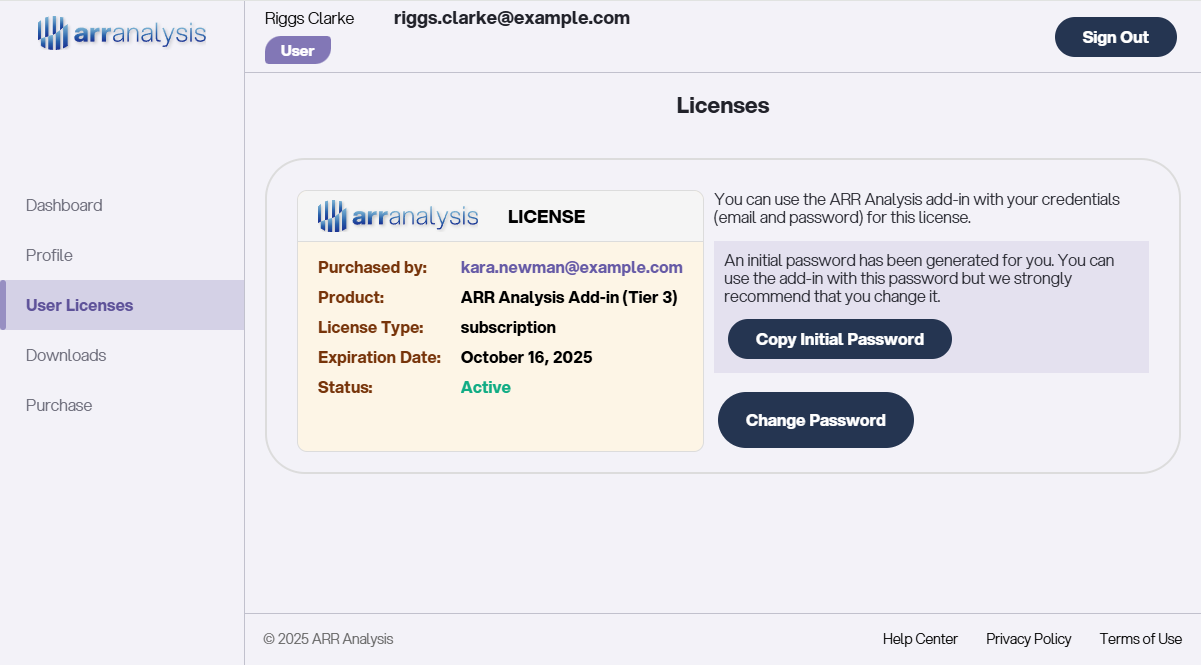
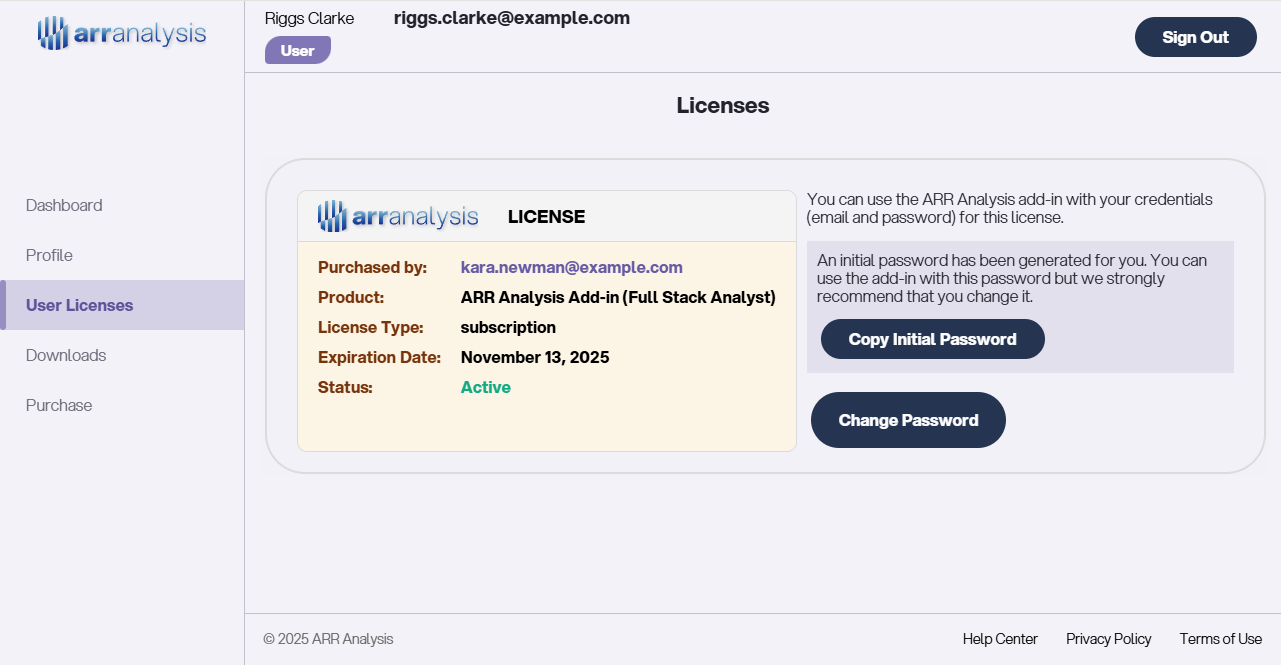
Replaced tier names everywhere with correct ones (Basic, SaaS Analyst and Full Stack Analyst)

diff --git a/website/src/components/help-center/zz-pages/PurchasingSubscriptions/index.js b/website/src/components/help-center/zz-pages/PurchasingSubscriptions/index.js
@@ -6,11 +6,11 @@ import useZoomableImage from '@/utils/client/useZoomableImage';
 // Components
 import ImageViewer from '@/components/help-center/ImageViewer';
 // Images
-import imgPricingOptions from '@/../public/help-center/Pricing-Options.jpg';
-import imgCheckoutSubscription from '@/../public/help-center/Checkout-Subscription.jpg';
+import imgPricingOptions from '@/../public/help-center/Pricing-Options.png';
+import imgCheckoutSubscription from '@/../public/help-center/Checkout-Subscription.png';
 import imgCheckoutCustomerInfo from '@/../public/help-center/Checkout-Customer-Info.jpg';
 import imgCheckoutPaymentMethod from '@/../public/help-center/Checkout-Payment-Method.png';
-import imgThankYouPage from '@/../public/help-center/Thank-You-Page.jpg';
+import imgThankYouPage from '@/../public/help-center/Thank-You-Page.png';
 // Styles
 import styles from '../common.module.scss';
 
@@ -22,21 +22,21 @@ const PurchasingSubscriptionsPage = () => {
     <section className={styles.main}>
       <article className={styles.full}>
         <h1>Purchasing Subscriptions</h1>
-        <p>To purchase a subscription, visit our <Link className={styles.link} href="/purchase">purchase page</Link>. Near the bottom of this page, you can choose your pricing tier and subscription type.</p>
+        <p>To purchase a subscription, visit our <Link className={styles.link} href="/purchase">purchase page</Link>. On this page, you can choose your subscription pricing tier and subscription billing period (monthly or yearly).</p>
         <Image className={styles.clickableImage}
                style={{ width: 'min(620px, 100%)' }}
                src={imgPricingOptions}
                alt="Pricing Options"
                priority
                onClick={() => setImage({ img: imgPricingOptions, alt: 'Pricing Options' })} />
-        <p>Clicking one of the three <strong className={styles.more}>Sign up</strong> buttons will take you to the checkout page, where you can review and adjust your subscription tier and billing period.</p>
-        <p>For the <strong>Enterprise</strong> tier, you also have the option to purchase multiple licenses.</p>
+        <p>Clicking one of the three <strong className={styles.more}>Buy Now</strong> buttons will take you to the checkout page, where you can review and adjust your pricing tier and billing period.</p>
+        <p>For the <strong>Full Stack Analyst</strong> tier, you also have the option to purchase multiple licenses.</p>
         <Image className={styles.clickableImage}
                style={{ width: 'min(620px, 100%)' }}
                src={imgCheckoutSubscription}
                alt="Subscription Tier and Billing Period"
                onClick={() => setImage({ img: imgCheckoutSubscription, alt: 'Subscription Tier and Billing Period' })} />
-        <p>Once you have chosen your subscription tier and billing period, enter your personal details in the form below. Required fields include your first and last name, email, and password. The Company field is optional. Your information is protected under our <Link className={styles.link} href="/privacy">Privacy Policy</Link>.</p>
+        <p>Once you have chosen your subscription pricing tier and billing period, enter your personal details in the form below. Required fields include your first and last name, email, and password. The Company field is optional. Your information is protected under our <Link className={styles.link} href="/privacy">Privacy Policy</Link>.</p>
         <Image className={styles.clickableImage}
                style={{ width: 'min(620px, 100%)' }}
                src={imgCheckoutCustomerInfo}

diff --git a/website/src/components/help-center/zz-pages/AssignLicenseSelf/AssignLicenseSelfClient/index.js b/website/src/components/help-center/zz-pages/AssignLicenseSelf/AssignLicenseSelfClient/index.js
@@ -6,11 +6,11 @@ import useZoomableImage from '@/utils/client/useZoomableImage';
 import ImageViewer from '@/components/help-center/ImageViewer';
 import Subtopics from '@/components/help-center/Subtopics';
 // Image
-import imgCustomerLicenses from '@/../public/help-center/Customer-Licenses1.jpg';
-import imgCustomerBecomesUser from '@/../public/help-center/Customer-Becomes-User.jpg';
-import imgUserLicenses from '@/../public/help-center/User-Licenses.jpg';
-import imgAssignedLicense from '@/../public/help-center/Assigned-License.jpg';
-import imgChangeLicensePassword from '@/../public/help-center/Change-License-Password.jpg';
+import imgCustomerLicenses from '@/../public/help-center/Customer-Licenses.png';
+import imgCustomerBecomesUser from '@/../public/help-center/Customer-Becomes-User.png';
+import imgUserLicenses from '@/../public/help-center/User-Licenses.png';
+import imgAssignedLicense from '@/../public/help-center/Assigned-License.png';
+import imgChangeLicensePassword from '@/../public/help-center/Change-License-Password.png';
 // Styles
 import styles from '../../common.module.scss';
 
@@ -23,13 +23,13 @@ const AssignLicenseSelfClient = ({ links }) => {
       <article className={styles.full}>
         <h1>Assigning a License to Yourself</h1>
         <p>As a <strong>Customer</strong>, you have purchased one or more subscriptions. Each subscription includes one or more licenses.</p>
-        <p className={styles.note}><strong className={styles.more}>Note:</strong> Subscriptions with multiple licenses are available only for <strong>Tier 3</strong> plans.</p>
+        <p className={styles.note}><strong className={styles.more}>Note:</strong> Subscriptions with multiple licenses are available only for <strong>Full Stack Analyst</strong> plans.</p>
         <hr />
         <h2>Step 1: Open the Customer Licenses Page</h2>
         <p>Go to the <strong>Customer Licenses</strong> page. The image below shows a customer with three licenses:</p>
         <ul>
-          <li>One license from a <strong>Tier 2</strong> subscription</li>
-          <li>Two licenses from a <strong>Tier 3</strong> subscription</li>
+          <li>One license from a <strong>SaaS Analyst</strong> subscription</li>
+          <li>Two licenses from a <strong>Full Stack Analyst</strong> subscription</li>
         </ul>
         <Image className={styles.clickableImage}
                style={{ width: 'min(750px, 100%)' }}
@@ -65,7 +65,7 @@ const AssignLicenseSelfClient = ({ links }) => {
         <h2>Step 4: Assign Yourself to the License</h2>
         <p>To use the <strong>ARR Analysis Excel Add-in</strong>, click <strong className={styles.more}>Assign Self</strong> on the desired license. After that your license will look like this:</p>
         <Image className={styles.clickableImage}
-               style={{ maxWidth: '100%' }}
+               style={{ width: 'min(750px, 100%)' }}
                src={imgAssignedLicense}
                alt="Assigned License"
                onClick={() => setImage({ img: imgAssignedLicense, alt: 'Assigned License' })} />

diff --git a/website/src/components/forms/DownloadFilesPage/index.js b/website/src/components/forms/DownloadFilesPage/index.js
@@ -1,6 +1,7 @@
 'use client';
 
 import { useCallback, useEffect, useState } from 'react';
+import { TierNames } from '@/utils/common';
 // Components
 import Footer from '@/components/admin/Footer';
 import LinkButton from '@/components/LinkButton';
@@ -33,7 +34,7 @@ const DownloadFilesPage = ({ files, isAdmin, allowed }) => {
     if (f[tier] == null)
       return '';
     const fileName = f[tier].fileName;
-    return f[tier].versions.map(ver => window.btoa(`${tier}/${ver}/${fileName}`));
+    return f[tier].versions.map(ver => window.btoa(`${ver}/${tier}/${fileName}`));
   }, []);
 
   useEffect(() => {
@@ -63,7 +64,7 @@ const DownloadFilesPage = ({ files, isAdmin, allowed }) => {
               }
               {!loading &&
                 <>
-                  <div className={styles.heading}>Basic</div>
+                  <div className={styles.heading}>{TierNames.Basic}</div>
                   <div className={styles.tier}>(Tier 1)</div>
                   <div className={styles.desc}>ARR Analysis Excel Add-in</div>
                   {files.tier01 == null && <FileNotFound />}
@@ -104,9 +105,9 @@ const DownloadFilesPage = ({ files, isAdmin, allowed }) => {
               }
               {!loading &&
                 <>
-                  <div className={styles.heading}>Intermediate</div>
+                  <div className={styles.heading}>{TierNames.SaaSAnalyst}</div>
                   <div className={styles.tier}>(Tier 2)</div>
-                  <div className={styles.desc}>ARR Analysis + Segmentation</div>
+                  <div className={styles.desc}>ARR Analysis Excel Add-in</div>
                   {files.tier02 == null && <FileNotFound />}
                   {files.tier02 != null &&
                     <>
@@ -145,9 +146,9 @@ const DownloadFilesPage = ({ files, isAdmin, allowed }) => {
               }
               {!loading &&
                 <>
-                  <div className={styles.heading}>Advanced</div>
+                  <div className={styles.heading}>{TierNames.FullStackAnalyst}</div>
                   <div className={styles.tier}>(Tier 3)</div>
-                  <div className={styles.desc}>Enterprise</div>
+                  <div className={styles.desc}>ARR Analysis Excel Add-in</div>
                   {files.tier03 == null && <FileNotFound />}
                   {files.tier03 != null &&
                     <>

diff --git a/website/src/components/help-center/zz-pages/AssignLicenseOther/AssignLicenseOtherClient/index.js b/website/src/components/help-center/zz-pages/AssignLicenseOther/AssignLicenseOtherClient/index.js
@@ -6,11 +6,11 @@ import useZoomableImage from '@/utils/client/useZoomableImage';
 import ImageViewer from '@/components/help-center/ImageViewer';
 import Subtopics from '@/components/help-center/Subtopics';
 // Image
-import imgCustomerLicenses from '@/../public/help-center/Customer-Licenses1.jpg';
+import imgCustomerLicenses from '@/../public/help-center/Customer-Licenses.png';
 import imgInviteUser from '@/../public/help-center/Invite-User.jpg';
-import imgInvitedByEmail from '@/../public/help-center/Invited-by-Email.jpg';
-import imgAllowedUser from '@/../public/help-center/Allowed-User.jpg';
-import imgAssignedUser from '@/../public/help-center/Assigned-User.jpg';
+import imgInvitedByEmail from '@/../public/help-center/Invited-by-Email.png';
+import imgAllowedUser from '@/../public/help-center/Allowed-User.png';
+import imgAssignedUser from '@/../public/help-center/Assigned-User.png';
 // Styles
 import styles from '../../common.module.scss';
 
@@ -23,13 +23,13 @@ const AssignLicenseOtherClient = ({ links }) => {
       <article className={styles.full}>
         <h1>Assigning a License to someone else</h1>
         <p>As a <strong>Customer</strong>, you have purchased one or more subscriptions. Each subscription includes one or more licenses.</p>
-        <p className={styles.note}><strong className={styles.more}>Note:</strong> Subscriptions with multiple licenses are available only for <strong>Tier 3</strong> plans.</p>
+        <p className={styles.note}><strong className={styles.more}>Note:</strong> Subscriptions with multiple licenses are available only for <strong>Full Stack Analyst</strong> plans.</p>
         <hr />
         <h2>Step 1: Open the Customer Licenses Page</h2>
         <p>Go to the <strong>Customer Licenses</strong> page. The image below shows a customer with three licenses:</p>
         <ul>
-          <li>One license from a <strong>Tier 2</strong> subscription</li>
-          <li>Two licenses from a <strong>Tier 3</strong> subscription</li>
+          <li>One license from a <strong>SaaS Analyst</strong> subscription</li>
+          <li>Two licenses from a <strong>Full Stack Analyst</strong> subscription</li>
         </ul>
         <Image className={styles.clickableImage}
                style={{ width: 'min(750px, 100%)' }}

diff --git a/website/src/app/(main)/terms/page.js b/website/src/app/(main)/terms/page.js
@@ -25,7 +25,7 @@ const TermsOfUsePage = () => {
             <ol>
               <li><strong>&ldquo;Customer&rdquo;</strong> means an individual or entity that purchases a subscription to our Services</li>
               <li><strong>&ldquo;User&rdquo;</strong> means an individual assigned a license by a Customer to use the Excel Add-in</li>
-              <li><strong>&ldquo;Add-in&rdquo;</strong> refers to our Excel Add-in software available in Basic, Intermediate, and Advanced tiers</li>
+              <li><strong>&ldquo;Add-in&rdquo;</strong> refers to our Excel Add-in software available in Basic, SaaS Analyst, and Full Stack Analyst tiers</li>
               <li><strong>&ldquo;Subscription&rdquo;</strong> means a paid plan (monthly or yearly) that provides access to the Add-in</li>
               <li><strong>&ldquo;Account&rdquo;</strong> means your registered account on our website</li>
             </ol>
@@ -44,7 +44,7 @@ const TermsOfUsePage = () => {
                 </ul>
               </li>
               <li>
-                <strong>Intermediate (Tier 2):</strong>
+                <strong>SaaS Analyst (Tier 2):</strong>
                 <p>Includes all Basic features, plus:</p>
                 <ul className={styles.mTx8}>
                   <li><span className={styles.lesser}>Cohort Analysis:</span> Track customer retention, churn, and expansion trends by cohort (e.g., by signup month or year).</li>
@@ -60,8 +60,8 @@ const TermsOfUsePage = () => {
                 </ul>
               </li>
               <li>
-                <strong>Advanced (Tier 3):</strong>
-                <p>Includes all Intermediate features, plus:</p>
+                <strong>Full Stack Analyst (Tier 3):</strong>
+                <p>Includes all SaaS Analyst features, plus:</p>
                 <ul className={styles.mTx8}>
                   <li>Analyze top churns in greater detail.</li>
                   <li>Analyze unit economics (LTV, CAC, GEI, Payback period).</li>

diff --git a/website/src/components/help-center/zz-pages/PurchaseMore/index.js b/website/src/components/help-center/zz-pages/PurchaseMore/index.js
@@ -27,11 +27,11 @@ const PurchaseMorePage = () => {
         <h2>Select Your Product and Billing Period</h2>
         <p>At the top of the page, choose one of the following products:</p>
         <ul>
-          <li>ARR Analysis Excel Add-in (Tier 1)</li>
-          <li>ARR Analysis + Segmentation (Tier 2)</li>
-          <li>Enterprise (Tier 3)</li>
+          <li>Basic</li>
+          <li>SaaS Analyst</li>
+          <li>Full Stack Analyst</li>
         </ul>
-        <p>For <strong>Tier 1</strong> and <strong>Tier 2</strong>, only one license per subscription can be purchased, and for <strong>Tier 3</strong>, a license counter appears so you can purchase multiple licenses in one subscription.</p>
+        <p>For <strong>Basic</strong> and <strong>SaaS Analyst</strong>, only one license per subscription can be purchased, and for <strong>Full Stack Analyst</strong>, a license counter appears so you can purchase multiple licenses in one subscription.</p>
         <p>Use the <strong className={styles.more}>Monthly / Yearly</strong> toggle to select your billing frequency:</p>
         <ul>
           <li><strong className={styles.more}>Monthly</strong> → Billed every month.</li>
@@ -63,7 +63,7 @@ const PurchaseMorePage = () => {
         <hr />
         <h2>View Your Purchase Summary</h2>
         <p>After a successful purchase, the page displays a <strong>Thank You</strong> message along with the details of your new subscription.</p>
-        <p>Example for a monthly subscription for the Enterprise (Tier 3) product with 4 licenses:</p>
+        <p>Example for a monthly subscription for the <strong>Full Stack Analyst</strong> product with 4 licenses:</p>
         <Image className={styles.clickableImage}
                style={{ width: 'min(750px, 100%)' }}
                src={imgThankYou}

diff --git a/website/src/utils/server/s3.js b/website/src/utils/server/s3.js
@@ -1,5 +1,6 @@
 import 'server-only';
 import { S3Client, paginateListObjectsV2, GetObjectCommand } from '@aws-sdk/client-s3';
+import { TierNames } from '@/utils/common';
 
 
 const client = new S3Client({
@@ -46,21 +47,25 @@ const listFiles = async prefix => {
 
   // Parse the files into a json object
   const ret = {};
-  const tierNames = ['Basic', 'Intermediate', 'Advanced'];
+  const arrTiers = TierNames.toArray();
   for (const file of files) {
     const parts = file.split('/');
-    const tier = parts[2];
+    const version = parts[2];
+    const tier = parts[3];
+    let fileName = parts[4];
+
     const tierLastCh = tier.charAt(tier.length - 1);
     if (parts.length !== 5 || !tier.startsWith('tier0') || !['1', '2', '3'].includes(tierLastCh))
       throw new Error(`Unexpected file paths: ${files.join(', ')}`);
-    const version = parts[3];
-    let fileName = parts[4];
+
     const tierNameId = +tierLastCh - 1;
     if (!Number.isSafeInteger(tierNameId) || tierNameId < 0 || tierNameId > 2)
       throw new Error(`Unexpected tierNameId: ${tierNameId}. Should be one of [0, 1, 2]`);
-    const tierName = tierNames[tierNameId];
-    if (fileName !== `ARR-Addin-${tierName}-Setup.exe`)
-      throw new Error(`Bad file name encountered: ${fileName}\r\nFiles: ${files.join(', ')}`);
+    const tierName = arrTiers[tierNameId];
+
+    if (fileName.toLowerCase() !== `${tierName}.exe`.toLowerCase())
+      throw new Error(`Unexpected file name: ${fileName}. Should be ${tierName}.exe`);
+
     if (!(tier in ret))
       ret[tier] = { versions: [], fileName };
     ret[tier].versions = [...ret[tier].versions, version];

diff --git a/website/src/components/help-center/zz-pages/ManageSubscriptions/index.js b/website/src/components/help-center/zz-pages/ManageSubscriptions/index.js
@@ -8,14 +8,14 @@ import ImageViewer from '@/components/help-center/ImageViewer';
 import Subtopics from '@/components/help-center/Subtopics';
 // Images
 import imgActiveAllToggle from '@/../public/help-center/Active-All-ToggleButton.png';
-import imgSubscriptionActive from '@/../public/help-center/Subscription-Active.jpg';
+import imgSubscriptionActive from '@/../public/help-center/Subscription-Active.png';
 import imgContentToggle from '@/../public/help-center/SubscriptionContent-ToggleButton.png';
 import imgSubscriptionId from '@/../public/help-center/Subscription-ID.png';
 import imgProductName from '@/../public/help-center/Subscription-Product-Name.png';
 import imgLicenseCount from '@/../public/help-center/Subscription-License-Count.png';
 import imgStatusActive from '@/../public/help-center/Subscription-Status-Active.png';
-import imgSubscriptionPendingCancel from '@/../public/help-center/Subscription-Pending-Cancel.jpg';
-import imgSubscriptionScreen from '@/../public/help-center/Subscriptions-Screen.jpg';
+import imgSubscriptionPendingCancel from '@/../public/help-center/Subscription-Pending-Cancel.png';
+import imgSubscriptionScreen from '@/../public/help-center/Subscriptions-Screen.png';
 import imgSubscriptionCancelled from '@/../public/help-center/Subscription-Cancelled.jpg';
 import imgSubscriptionExpired from '@/../public/help-center/Subscription-Expired.jpg';
 // Styles

diff --git a/website/src/components/help-center/zz-pages/ManageLicenseUsers/index.js b/website/src/components/help-center/zz-pages/ManageLicenseUsers/index.js
@@ -5,9 +5,9 @@ import useZoomableImage from '@/utils/client/useZoomableImage';
 // Components
 import ImageViewer from '@/components/help-center/ImageViewer';
 // Images
-import imgLicenseWithUser from '@/../public/help-center/License-With-User.jpg';
-import imgManageLicenseInvitation from '@/../public/help-center/Manage-License-Invitation.jpg';
-import imgManageLicenseUsr from '@/../public/help-center/Manage-License-Allowed-User.jpg';
+import imgLicenseWithUser from '@/../public/help-center/License-With-User.png';
+import imgManageLicenseInvitation from '@/../public/help-center/Manage-License-Invitation.png';
+import imgManageLicenseUsr from '@/../public/help-center/Manage-License-Allowed-User.png';
 // Styles
 import styles from '../common.module.scss';
 

diff --git a/website/src/components/help-center/zz-pages/ClaimLicense/ClaimLicenseClient/index.js b/website/src/components/help-center/zz-pages/ClaimLicense/ClaimLicenseClient/index.js
@@ -7,8 +7,8 @@ import ImageViewer from '@/components/help-center/ImageViewer';
 import Subtopics from '@/components/help-center/Subtopics';
 // Image
 import imgUserLicensesUser from '@/../public/help-center/User-Licenses-User.jpg';
-import imgAssignedLicense from '@/../public/help-center/Assigned-License.jpg';
-import imgChangeLicensePassword from '@/../public/help-center/Change-License-Password.jpg';
+import imgAssignedLicense from '@/../public/help-center/Assigned-License.png';
+import imgChangeLicensePassword from '@/../public/help-center/Change-License-Password.png';
 // Styles
 import styles from '../../common.module.scss';
 

diff --git a/website/src/app/(main)/privacy/page.js b/website/src/app/(main)/privacy/page.js
@@ -41,7 +41,7 @@ const PrivacyPolicyPage = () => {
             </ul>
             <h4>2.3 Subscription and License Data</h4>
             <ul>
-              <li>Subscription tier (Basic, Intermediate, Advanced)</li>
+              <li>Subscription tier (Basic, SaaS Analyst, Full Stack Analyst)</li>
               <li>Billing cycle (monthly or yearly)</li>
               <li>License assignment information</li>
               <li>Subscription status and history</li>

diff --git a/website/src/app/api/download/route.js b/website/src/app/api/download/route.js
@@ -28,7 +28,7 @@ const GET = async req => {
     // Add the version to the filename
     const arr = fileKey.split('/');
     const arrF = arr[arr.length - 1].split('.');
-    const fileName = `${arrF[0]} (version ${arr[arr.length - 2]}).${arrF[1]}`;
+    const fileName = `ARR Analysis Excel Add-in (${arrF[0]}) [version ${arr[arr.length - 3]}].${arrF[1]}`;
 
     // Only log if not an RSC request (prevents duplicate DOWNLOAD_FILE logs)
     if (!isRscRequest) {
